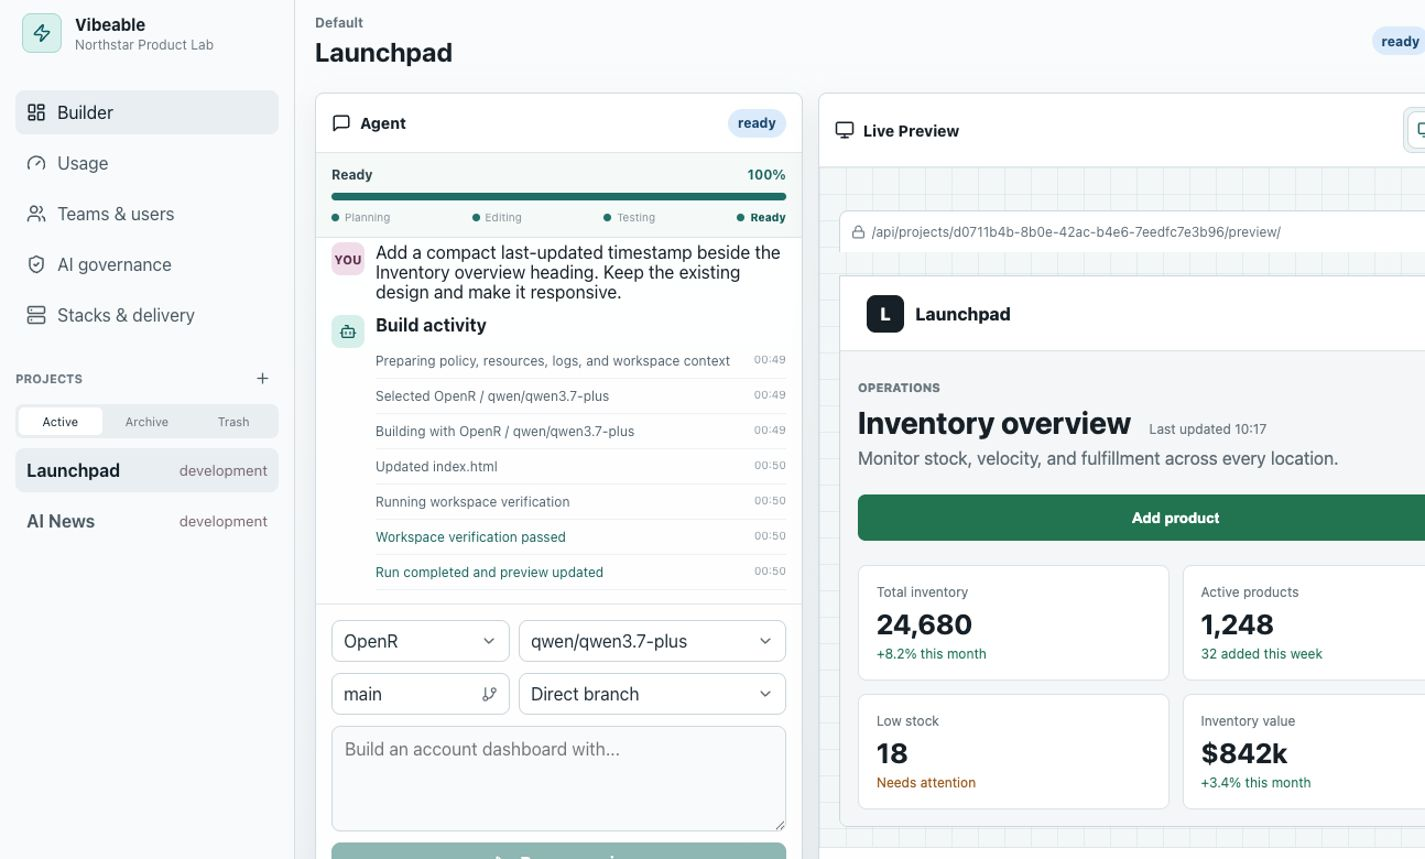
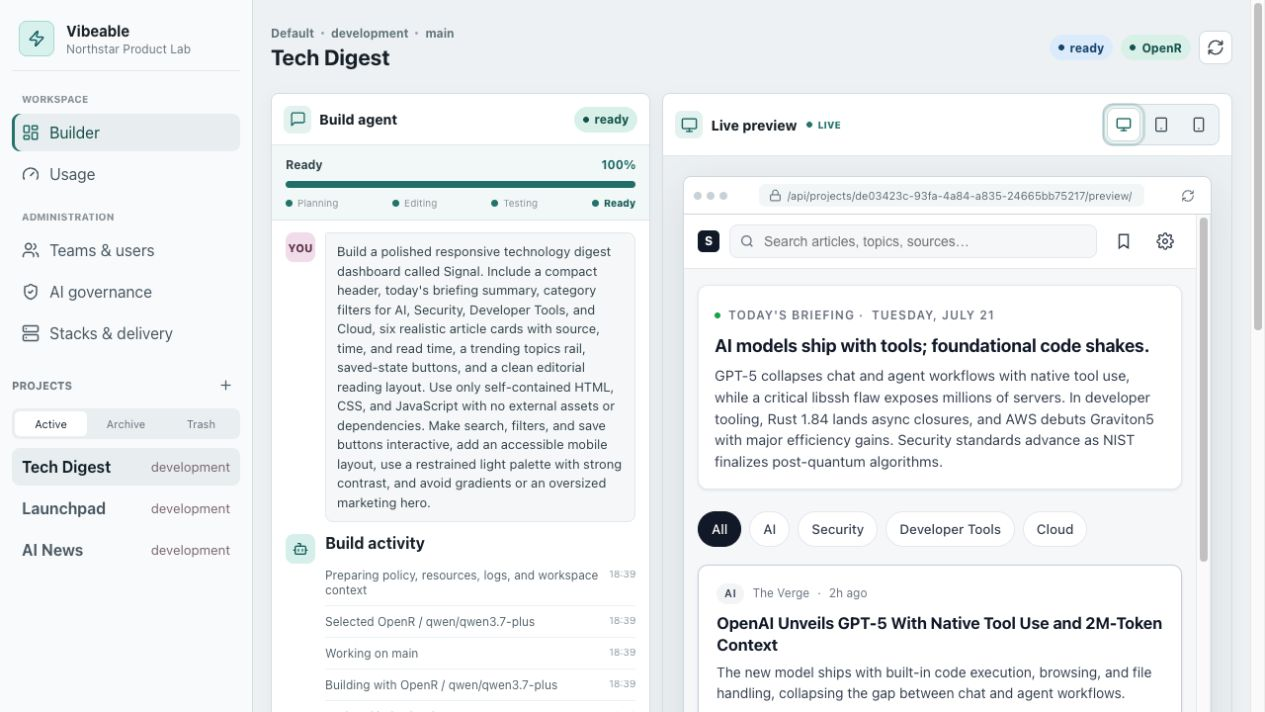
fix: validate real provider builds and preview runtime

diff --git a/src/styles.css b/src/styles.css
@@ -642,6 +642,24 @@ textarea:focus-visible {
   text-transform: uppercase;
 }
 
+.contextLabel {
+  align-items: center;
+  display: flex;
+  gap: 6px;
+}
+
+.contextLabel small {
+  background: #e8f6ee;
+  border: 1px solid #bce3ca;
+  border-radius: 4px;
+  color: #18733b;
+  font-size: 9px;
+  font-weight: 700;
+  line-height: 16px;
+  padding: 0 5px;
+  text-transform: none;
+}
+
 .composerHeading small {
   min-width: 0;
   overflow: hidden;

diff --git a/server/security.ts b/server/security.ts
@@ -4,20 +4,21 @@ import { BlockList, isIP } from "node:net";
 import { config } from "./config.js";
 
 const encryptionKey = createHash("sha256").update(config.MASTER_KEY).digest();
-const specialUseAddresses = new BlockList();
+const specialUseIpv4Addresses = new BlockList();
+const specialUseIpv6Addresses = new BlockList();
 
 for (const [network, prefix] of [
   ["0.0.0.0", 8], ["10.0.0.0", 8], ["100.64.0.0", 10], ["127.0.0.0", 8],
   ["169.254.0.0", 16], ["172.16.0.0", 12], ["192.0.0.0", 24], ["192.0.2.0", 24],
   ["192.88.99.0", 24], ["192.168.0.0", 16], ["198.18.0.0", 15], ["198.51.100.0", 24],
   ["203.0.113.0", 24], ["224.0.0.0", 4], ["240.0.0.0", 4]
-] as const) specialUseAddresses.addSubnet(network, prefix, "ipv4");
+] as const) specialUseIpv4Addresses.addSubnet(network, prefix, "ipv4");
 
 for (const [network, prefix] of [
   ["::", 128], ["::1", 128], ["::ffff:0:0", 96], ["64:ff9b:1::", 48], ["100::", 64],
   ["2001::", 23], ["2001:db8::", 32], ["2002::", 16], ["3fff::", 20], ["5f00::", 16],
   ["fc00::", 7], ["fe80::", 10], ["fec0::", 10], ["ff00::", 8]
-] as const) specialUseAddresses.addSubnet(network, prefix, "ipv6");
+] as const) specialUseIpv6Addresses.addSubnet(network, prefix, "ipv6");
 
 export function createSessionToken() {
   return randomBytes(32).toString("base64url");
@@ -117,7 +118,7 @@ function isPrivateHost(value: string) {
   if (host === "localhost" || host === "home.arpa" || host.endsWith(".localhost") || host.endsWith(".local") ||
       host.endsWith(".internal") || host.endsWith(".home.arpa")) return true;
   const family = isIP(host);
-  if (family === 4) return specialUseAddresses.check(host, "ipv4");
-  if (family === 6) return specialUseAddresses.check(host, "ipv6");
+  if (family === 4) return specialUseIpv4Addresses.check(host, "ipv4");
+  if (family === 6) return specialUseIpv6Addresses.check(host, "ipv6");
   return false;
 }

diff --git a/server/app.ts b/server/app.ts
@@ -795,6 +795,8 @@ function mimeType(path: string) {
 export function injectPreviewBridge(html: string, projectId: string) {
   const bridge = `<script data-vibeable-preview-bridge>(()=>{
 const projectId=${JSON.stringify(projectId)};
+const createStorage=()=>{const data=new Map();return{get length(){return data.size},clear:()=>data.clear(),getItem:(key)=>data.has(String(key))?data.get(String(key)):null,key:(index)=>[...data.keys()][index]??null,removeItem:(key)=>data.delete(String(key)),setItem:(key,value)=>data.set(String(key),String(value))}};
+for(const name of ['localStorage','sessionStorage']){try{void window[name]}catch{Object.defineProperty(window,name,{configurable:true,value:createStorage()})}}
 const serialize=(value)=>{try{return typeof value==='string'?value:JSON.stringify(value)}catch{return String(value)}};
 const send=(level,values)=>parent.postMessage({source:'vibeable-preview',projectId,level,message:values.map(serialize).join(' ').slice(0,4000)},'*');
 for(const level of ['debug','info','warn','error']){const original=console[level]?.bind(console);console[level]=(...values)=>{original?.(...values);send(level,values)}}
@@ -802,7 +804,9 @@ addEventListener('error',(event)=>send('error',[event.message,event.filename+':'
 addEventListener('unhandledrejection',(event)=>send('error',['Unhandled rejection',event.reason]));
 send('info',['Preview loaded']);
 })()</script>`;
-  return /<\/body\s*>/i.test(html) ? html.replace(/<\/body\s*>/i, `${bridge}</body>`) : `${html}${bridge}`;
+  if (/<head\b[^>]*>/i.test(html)) return html.replace(/<head\b[^>]*>/i, (head) => `${head}${bridge}`);
+  if (/<body\b[^>]*>/i.test(html)) return html.replace(/<body\b[^>]*>/i, (body) => `${body}${bridge}`);
+  return `${bridge}${html}`;
 }
 
 export async function closeApp() {

diff --git a/src/App.tsx b/src/App.tsx
@@ -287,6 +287,8 @@ function Builder({ session, onLogout }: { session: Session; onLogout: () => Prom
 
 function ChatPanel({ prompt, run, providers, providerId, model, branches, workers, targetBranch, workerId, canApprove, onProviderChange, onModelChange, onTargetBranchChange, onWorkerChange, onPromptChange, onStartRun, onApproveRun }: { prompt: string; run?: Run; providers: ProviderOption[]; providerId: string; model: string; branches: string[]; workers: ProjectWorker[]; targetBranch: string; workerId: string; canApprove: boolean; onProviderChange: (value: string) => void; onModelChange: (value: string) => void; onTargetBranchChange: (value: string) => void; onWorkerChange: (value: string) => void; onPromptChange: (value: string) => void; onStartRun: () => void; onApproveRun: () => void }) {
   const provider = providers.find((item) => item.id === providerId);
+  const recommendedModel = provider?.allowedModels.includes(provider.defaultModel) ? provider.defaultModel : provider?.allowedModels[0];
+  const approvedModels = provider?.allowedModels.filter((item) => item !== recommendedModel) ?? [];
   const working = Boolean(run && !["ready", "failed"].includes(run.status));
   const progress = run && ["ready", "failed"].includes(run.status) ? 100 : run?.progress ?? 0;
   const elapsed = useElapsed(run, working);
@@ -295,7 +297,7 @@ function ChatPanel({ prompt, run, providers, providerId, model, branches, worker
   return <section className={`panel chatPanel ${working ? "isBuilding" : ""}`}><div className="panelHeader"><div className="panelTitle"><span className="panelIcon"><MessageSquare size={17} /></span><span>Build agent</span></div>{run ? <StatusPill label={run.status.replaceAll("_", " ")} tone={run.status === "failed" ? "amber" : run.status === "ready" ? "green" : "blue"} /> : <span className="panelMeta">Ready</span>}</div>
     {run && <div className={`runProgress ${working ? "working" : ""}`} aria-live="polite"><div className="runProgressHeading"><span>{working && <LoaderCircle className="spin" size={15} />}{run.stageMessage || run.status}</span><strong>{working ? formatElapsed(elapsed) : `${progress}%`}</strong></div><progress aria-label="Build progress" value={progress} max="100" /><div className="stageRail">{stages.map((stage) => <span className={stageState(stage, currentStage)} key={stage}><i />{stage}</span>)}</div></div>}
     <div className="messageStream" aria-live="polite">{run ? <><div className="message userMessage"><span className="avatar">YOU</span><p>{run.prompt}</p></div><div className="message agentMessage"><span className="agentAvatar"><Bot size={16} /></span><div><strong>Build activity</strong><ol className="eventTimeline">{run.events.map((event) => <li className={event.type} key={event.sequence}><span>{event.message}</span><time>{new Date(event.createdAt).toLocaleTimeString([], { hour: "2-digit", minute: "2-digit" })}</time></li>)}</ol></div></div></> : <div className="emptyRun"><span className="emptyRunIcon"><Bot size={22} /></span><strong>What should we build?</strong><p>Describe the product, workflow, or change.</p></div>}</div>
-    <div className="composer"><div className="composerHeading"><span>Build context</span><small>{workers.find((worker) => worker.id === workerId)?.workingBranch ?? targetBranch}</small></div><div className="providerControls"><label className="contextField"><span>Provider</span><span className="selectShell"><select aria-label="AI provider" value={providerId} onChange={(event) => onProviderChange(event.target.value)}>{providers.map((item) => <option value={item.id} key={item.id}>{item.name}</option>)}</select><ChevronDown size={16} /></span></label><label className="contextField"><span>Model</span><span className="selectShell"><select aria-label="AI model" value={model} onChange={(event) => onModelChange(event.target.value)}>{provider?.allowedModels.map((item) => <option value={item} key={item}>{item}</option>)}</select><ChevronDown size={16} /></span></label></div><div className="providerControls"><label className="contextField"><span>Branch</span><span className="selectShell"><select aria-label="Git branch" value={targetBranch} disabled={Boolean(workerId)} onChange={(event) => onTargetBranchChange(event.target.value)}>{branches.map((branch) => <option value={branch} key={branch}>{branch}</option>)}</select><GitBranch size={15} /></span></label><label className="contextField"><span>Worker</span><span className="selectShell"><select aria-label="Git worker" value={workerId} onChange={(event) => onWorkerChange(event.target.value)}><option value="">Direct branch</option>{workers.filter((worker) => worker.status === "active").map((worker) => <option value={worker.id} key={worker.id}>{worker.name}: {worker.workingBranch}</option>)}</select><ChevronDown size={16} /></span></label></div><label className="promptField"><span>Request</span><textarea aria-label="Build request" value={prompt} onChange={(event) => onPromptChange(event.target.value)} rows={4} placeholder="Build an account dashboard with..." /></label><div className="composerActions">{canApprove && <button type="button" className="secondaryButton" onClick={onApproveRun}><ShieldCheck size={17} />Approve run</button>}<button type="button" className="primaryButton" onClick={onStartRun} disabled={!prompt.trim() || working || !providerId || !model}>{working ? <LoaderCircle className="spin" size={17} /> : <Play size={17} />}{working ? "Building" : "Start build"}</button></div></div>
+    <div className="composer"><div className="composerHeading"><span>Build context</span><small>{workers.find((worker) => worker.id === workerId)?.workingBranch ?? targetBranch}</small></div><div className="providerControls"><label className="contextField"><span>Provider</span><span className="selectShell"><select aria-label="AI provider" value={providerId} onChange={(event) => onProviderChange(event.target.value)}>{providers.map((item) => <option value={item.id} key={item.id}>{item.name}</option>)}</select><ChevronDown size={16} /></span></label><label className="contextField"><span className="contextLabel">Model{model === recommendedModel && <small>Recommended</small>}</span><span className="selectShell"><select aria-label="AI model" value={model} onChange={(event) => onModelChange(event.target.value)}>{recommendedModel && <optgroup label="Recommended"><option value={recommendedModel}>{recommendedModel}</option></optgroup>}{approvedModels.length > 0 && <optgroup label="Approved models">{approvedModels.map((item) => <option value={item} key={item}>{item}</option>)}</optgroup>}</select><ChevronDown size={16} /></span></label></div><div className="providerControls"><label className="contextField"><span>Branch</span><span className="selectShell"><select aria-label="Git branch" value={targetBranch} disabled={Boolean(workerId)} onChange={(event) => onTargetBranchChange(event.target.value)}>{branches.map((branch) => <option value={branch} key={branch}>{branch}</option>)}</select><GitBranch size={15} /></span></label><label className="contextField"><span>Worker</span><span className="selectShell"><select aria-label="Git worker" value={workerId} onChange={(event) => onWorkerChange(event.target.value)}><option value="">Direct branch</option>{workers.filter((worker) => worker.status === "active").map((worker) => <option value={worker.id} key={worker.id}>{worker.name}: {worker.workingBranch}</option>)}</select><ChevronDown size={16} /></span></label></div><label className="promptField"><span>Request</span><textarea aria-label="Build request" value={prompt} onChange={(event) => onPromptChange(event.target.value)} rows={4} placeholder="Build an account dashboard with..." /></label><div className="composerActions">{canApprove && <button type="button" className="secondaryButton" onClick={onApproveRun}><ShieldCheck size={17} />Approve run</button>}<button type="button" className="primaryButton" onClick={onStartRun} disabled={!prompt.trim() || working || !providerId || !model}>{working ? <LoaderCircle className="spin" size={17} /> : <Play size={17} />}{working ? "Building" : "Start build"}</button></div></div>
   </section>;
 }
 

diff --git a/server/app.integration.test.ts b/server/app.integration.test.ts
@@ -249,6 +249,8 @@ describe("PostgreSQL API integration", () => {
     expect(preview.headers["content-security-policy"]).toContain("sandbox allow-scripts allow-forms allow-modals");
     expect(preview.body).toContain("Integrated");
     expect(preview.body).toContain("vibeable-preview");
+    expect(preview.body).toContain("createStorage");
+    expect(preview.body.indexOf("vibeable-preview-bridge")).toBeLessThan(preview.body.indexOf("Integrated"));
     const projectUsage = (await authenticated("GET", `/api/metrics/usage?scope=project&id=${defaultProjectId}`, developerCookie)).json().usage;
     expect(projectUsage).toEqual([expect.objectContaining({ model: "test/model", totalTokens: 20, requests: 1 })]);
 

diff --git a/server/security.test.ts b/server/security.test.ts
@@ -19,6 +19,8 @@ describe("security helpers", () => {
 
   it("rejects insecure and private provider endpoints by default", () => {
     expect(assertSafeProviderUrl("https://openrouter.ai/api/v1/")).toBe("https://openrouter.ai/api/v1");
+    expect(assertSafeProviderUrl("https://104.18.2.115/v1")).toBe("https://104.18.2.115/v1");
+    expect(assertSafeProviderUrl("https://[2606:4700::6812:273]/v1")).toBe("https://[2606:4700::6812:273]/v1");
     expect(() => assertSafeProviderUrl("http://127.0.0.1:8000/v1")).toThrow();
     expect(() => assertSafeProviderUrl("https://100.64.0.1/v1")).toThrow();
     expect(() => assertSafeProviderUrl("https://192.0.2.1/v1")).toThrow();

diff --git a/README.md b/README.md
@@ -8,7 +8,7 @@ This repository is a self-hosted community edition, not a claim of feature-for-f
 
 ### Builder and live preview
 
-![Vibeable builder with an agent timeline, generated inventory application preview, branch selection, and changed files](docs/screenshots/builder.jpg)
+![Vibeable builder with a completed agent timeline and a live generated technology digest application](docs/screenshots/builder.jpg)
 
 ### Technology and delivery governance
 
@@ -16,7 +16,7 @@ This repository is a self-hosted community edition, not a claim of feature-for-f
 
 ### Scoped token usage
 
-![Vibeable global token and cost usage dashboard](docs/screenshots/usage.jpg)
+![Vibeable project-scoped token usage for a real OpenRouter build](docs/screenshots/usage.jpg)
 
 ### Teams and AI governance
 
@@ -35,7 +35,7 @@ Screenshots use local demo records and contain no production credentials.
 - Organization and team membership with owner, admin, developer, reviewer, and viewer roles.
 - PostgreSQL-backed projects, runs, policies, hooks, usage, deployments, and audit events.
 - OpenRouter or any compatible `/chat/completions` endpoint with encrypted API keys.
-- Per-run provider and model dropdowns constrained by the effective policy; administrators can edit endpoints, models, prices, keys, and availability.
+- Per-run provider and model dropdowns constrained by the effective policy, with the provider default identified as the recommended model; administrators can edit endpoints, models, prices, keys, and availability.
 - Global, team, user, and project policy inheritance with hard provider/model intersections.
 - Automatic lifecycle intent selection plus scoped prompt hooks and approval flags.
 - Structured AI file edits with path traversal and binary/context limits.